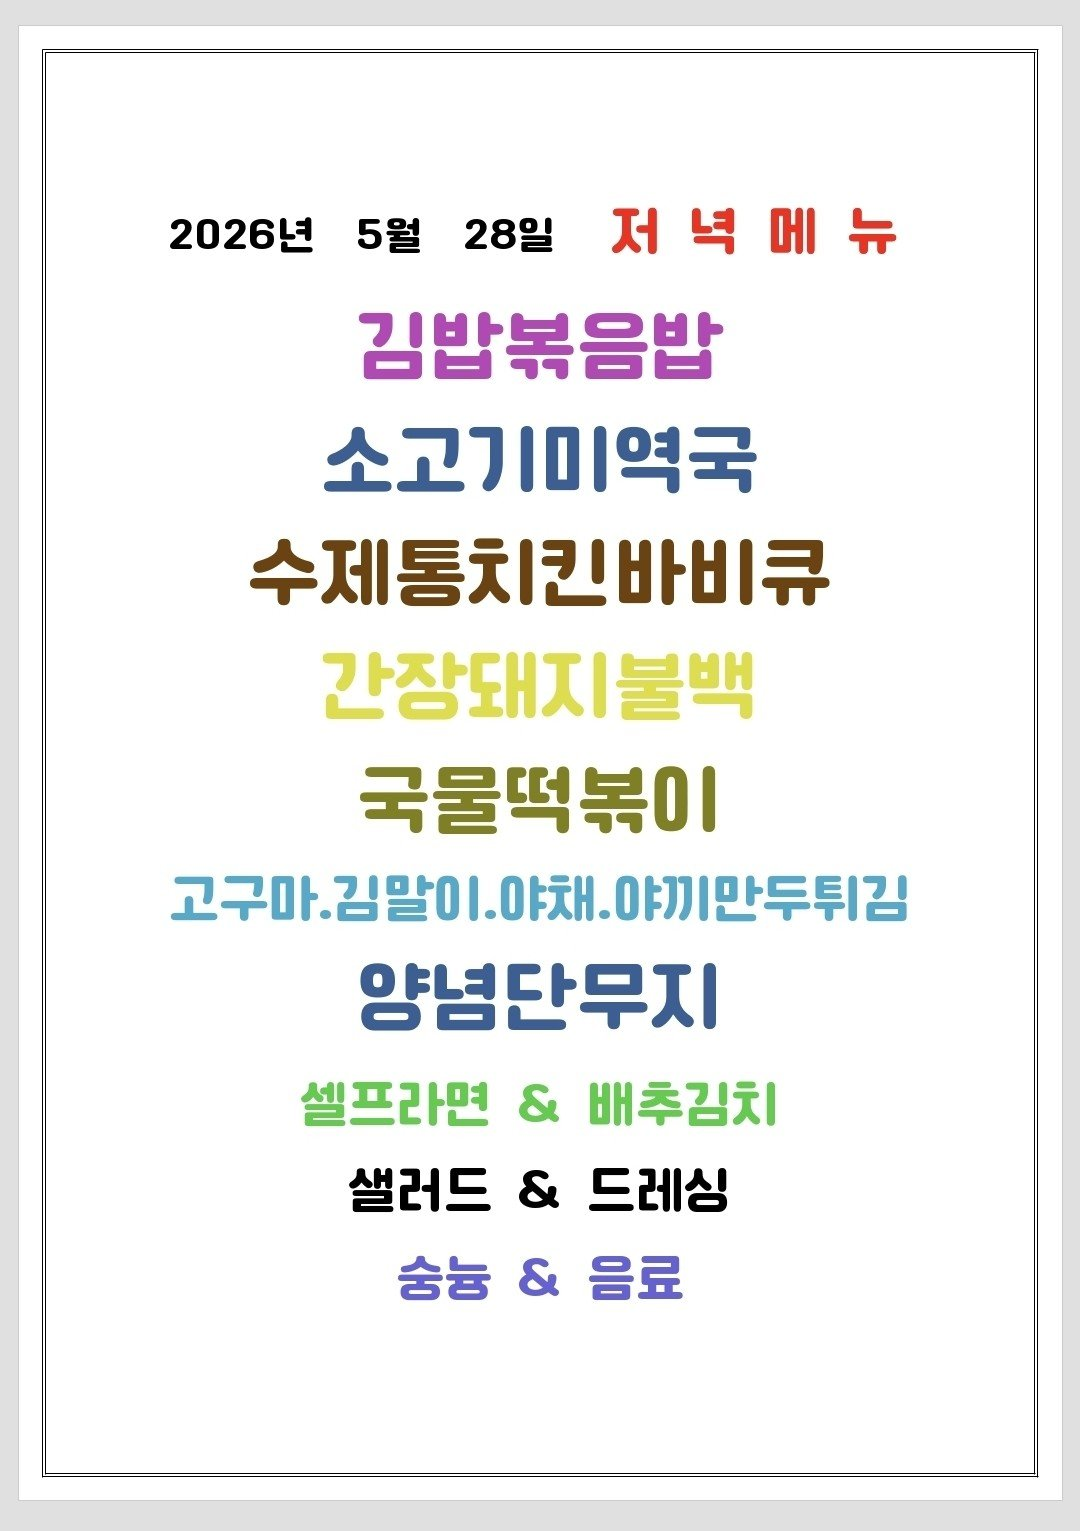
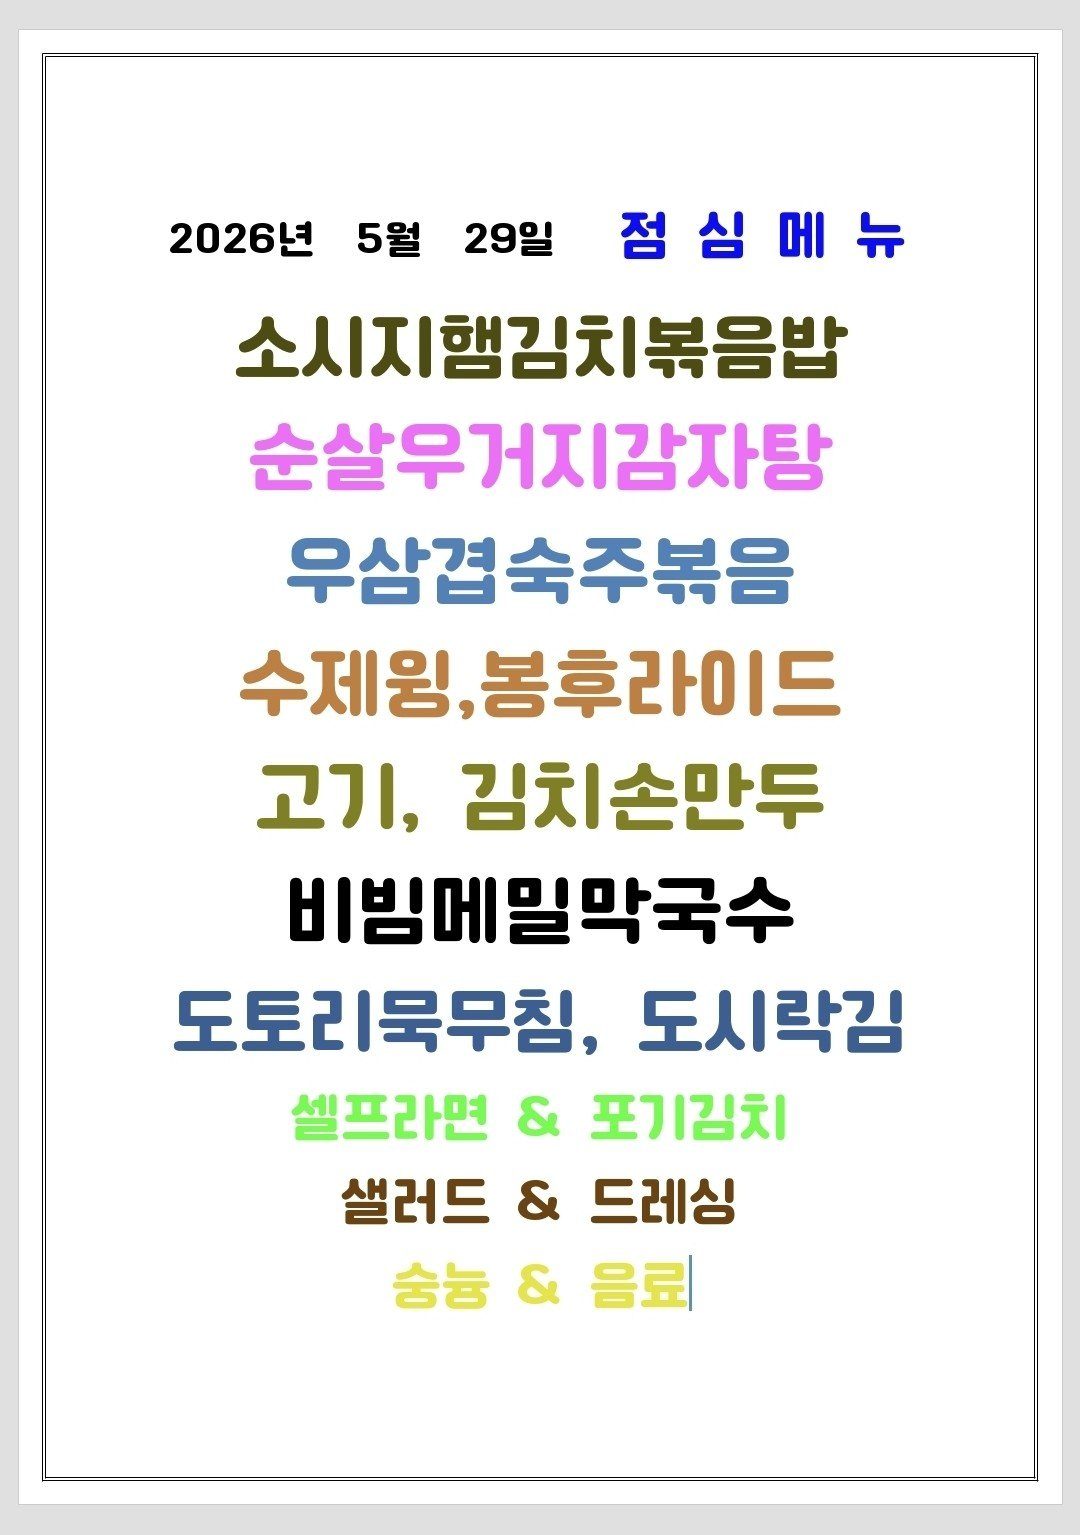
Update menu board assets

diff --git a/menu-today/index.html b/menu-today/index.html
@@ -209,7 +209,7 @@
 
     <section class="meta-bar">
       <div class="meta-card"><div class="meta-label">기준 날짜</div><div class="meta-value">2026년 5월 29일 금요일</div></div>
-      <div class="meta-card"><div class="meta-label">최종 가져온 시간</div><div class="meta-value">2026-05-29 09:33:16</div></div>
+      <div class="meta-card"><div class="meta-label">최종 가져온 시간</div><div class="meta-value">2026-05-29 09:48:12</div></div>
       <div class="meta-card"><div class="meta-label">확인 완료</div><div class="meta-value">10개 식당</div></div>
       <div class="meta-card"><div class="meta-label">준비중</div><div class="meta-value">3개 채널</div></div>
     </section>
@@ -265,7 +265,7 @@
             <div class="sub">가산비즈니스센터</div>
           </div>
         </div>
-        <div class="menu-inline-image"><img src="./images/raonfood.png" alt="구내식당라온푸드 식단 이미지"></div><div class="info-note">오늘 메뉴 미수집 상태입니다.</div>
+        <div class="menu-inline-image"><img src="./images/raonfood.png" alt="구내식당라온푸드 식단 이미지"></div><ul><li>소시지햄김지볶음밥</li><li>순살우꺼지감자탕</li><li>우삼겹숙주볶음</li><li>vy), 김지손만두</li><li>비빔메밀막국수</li><li>도토리묵무침, 도시락김</li><li>샐러드 &amp; 드레싱</li><li>소시지햄김지</li><li>보으바</li></ul>
       </article>
 
       <article class="restaurant-card">
